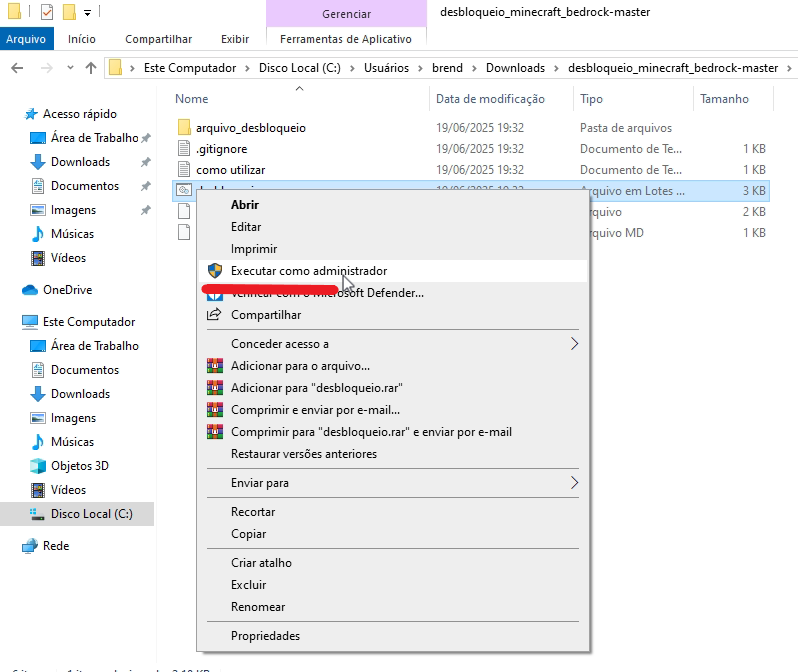
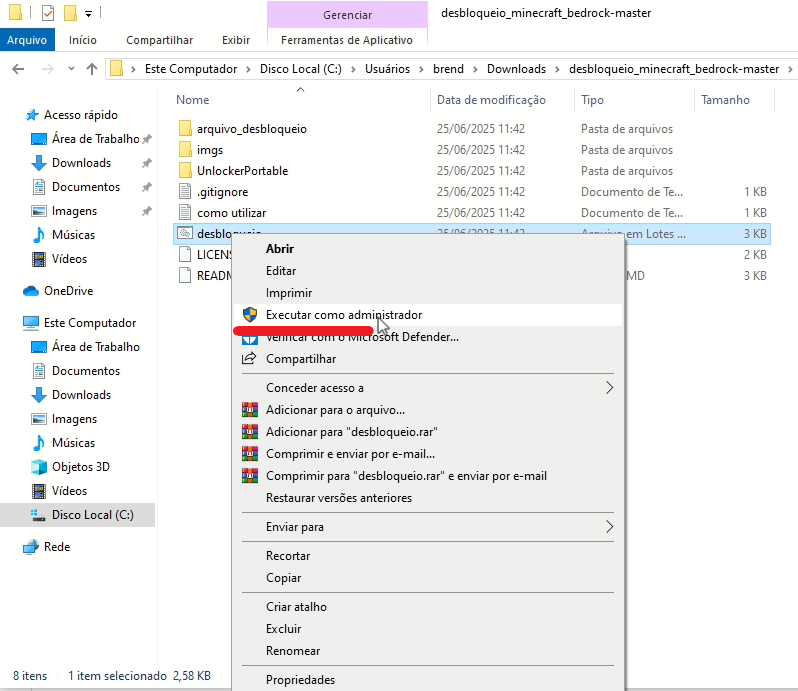
Estilização Readme com Unlocker

diff --git a/README.md b/README.md
@@ -9,6 +9,8 @@ O objetivo deste script é tornar o processo de desbloqueio do Minecraft mais á
 
 <h1 id="executar-projeto">Como Executar o projeto</h1>
 
+### Este desbloqueio só funciona em sistemas operacionais WINDOWS 10 e 11
+
 ## Clone o repositório
 Baixe o projeto via Git:
 
@@ -38,6 +40,11 @@ desbloqueio.bat
 <img src="imgs/adm.png" alt="Executar como administrador" width="650">
 <img src="imgs/confirmar.png" alt="Confirmação do UAC" width="650">
 
+### Caso a execução do script seja bloqueada, conforme demonstrado na imagem abaixo, siga o passo a passo indicado para prosseguir com o desbloqueio do Minecraft:
+
+<img src="imgs/block.png" alt="Bloqueio do Windows" width="400">
+<img src="imgs/permitir.png" alt="Permitir Execução Script" width="400">
+
 ## Resultado da Execução
 
 Ao executar o script, o seguinte fluxo será seguido automaticamente:
@@ -48,6 +55,19 @@ Ao executar o script, o seguinte fluxo será seguido automaticamente:
 
 <img src="imgs/resultado.png" alt="Mensagem final do script" width="650">
 
+---
+
+## Dependência: Unlocker
+
+Este projeto utiliza o [**Unlocker**](http://www.emptyloop.com/unlocker/) para desbloquear e apagar o arquivo `Windows.ApplicationModel.Store.dll` localizado na pasta `System32`.  
+O Unlocker é uma ferramenta gratuita que permite manipular arquivos bloqueados por processos do sistema operacional.
+
+>  <br>
+
+> 🔗 [Download Unlocker Portable (MajorGeeks)](https://www.majorgeeks.com/files/details/unlocker_portable.html)  
+> <br>
+
+
 ## Informações do Script
 💡 Toda a lógica do programa está implementada no arquivo desbloqueio.bat
 
@@ -55,7 +75,7 @@ Ao executar o script, o seguinte fluxo será seguido automaticamente:
     O programa criará uma cópia de segurança do arquivo Windows.ApplicationModel.Store.dll antes de prosseguir.
 
 2. Remoção do Arquivo Windows.ApplicationModel.Store.dll da pasta System32:<br>
-    O programa apaga o arquivo Windows.ApplicationModel.Store.dll da pasta System32.
+    O programa utiliza o Unlocker para desbloquear e apagar o arquivo Windows.ApplicationModel.Store.dll localizado na pasta System32.
 
 3. Copia do Arquivo de Desbloqueio na pasta System32:<br>
     Arquivo de Desbloqueio Windows.ApplicationModel.Store.dll presente na pasta arquivo_desbloqueio é copiado para C:\Windows\System32, concluindo o processo de desbloqueio do Minecraft.
